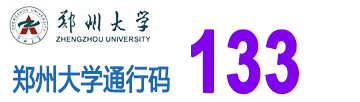
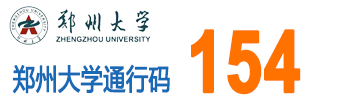
modify school name add ting

Changed region(s): [[0.5194, 0.2647, 0.8556, 0.9412]]

diff --git a/source/QR/ts-in.html b/source/QR/ts-in.html
@@ -1,5 +1,5 @@
 <!DOCTYPE html>
-<!-- saved from url=(0131)https://jksb.v.zzu.edu.cn/vls6sss/zzujksb.dll/gettongxing?ptopid=s0420A4619A5F4E3D86DC4941BAF4E459&door=0003&sid=211114143506287818 -->
+<!-- saved from url=(0131)https://jksb.v.zzu.edu.cn/vls6sss/zzujksb.dll/gettongxing?ptopid=sD4B58439E040401996C7151E9FBE5304&door=0005&sid=211114142907828815 -->
 <html>
 
 <head>
@@ -33,15 +33,15 @@
       tt1--;
       if (tt1 >= 0) {
         if ((tt1 % 2) == 1) {
-          document.getElementById('bian92a').style.backgroundColor = "#aab0fe";
-          document.getElementById('bian92b1').style.backgroundColor = "#aab0fe";
-          document.getElementById('bian92b2').style.backgroundColor = "#aab0fe";
-          document.getElementById('bian92c').style.backgroundColor = "#aab0fe";
+          document.getElementById('bian92a').style.backgroundColor = "#bfffc8";
+          document.getElementById('bian92b1').style.backgroundColor = "#bfffc8";
+          document.getElementById('bian92b2').style.backgroundColor = "#bfffc8";
+          document.getElementById('bian92c').style.backgroundColor = "#bfffc8";
         } else {
-          document.getElementById('bian92a').style.backgroundColor = "#0012ff";
-          document.getElementById('bian92b1').style.backgroundColor = "#0012ff";
-          document.getElementById('bian92b2').style.backgroundColor = "#0012ff";
-          document.getElementById('bian92c').style.backgroundColor = "#0012ff";
+          document.getElementById('bian92a').style.backgroundColor = "#090";
+          document.getElementById('bian92b1').style.backgroundColor = "#090";
+          document.getElementById('bian92b2').style.backgroundColor = "#090";
+          document.getElementById('bian92c').style.backgroundColor = "#090";
         }
         tt2 = tt1 % 60;
         tt3 = (tt1 - tt2) / 60;
@@ -52,34 +52,33 @@
 </head>
 
 <body>
-  <form method="POST" name="myform52"
-    action="https://jksb.v.zzu.edu.cn/vls6sss/zzujksb.dll/gettongxing?ptopid=s0420A4619A5F4E3D86DC4941BAF4E459&amp;door=0003&amp;sid=211114143506287818">
+  <form method="POST" name="myform52" action="#">
     <div id="bak_0">
       <div style="WIDTH: 100%; HEIGHT: 102px;background:url(../uploads/title316.png);">
         <div style="width:100%;height:32px;line-height:32px;text-align:right"><a
-            href="https://jksb.v.zzu.edu.cn/vls6sss/zzujksb.dll/logout?ptopid=s0420A4619A5F4E3D86DC4941BAF4E459"><span
+            href="https://jksb.v.zzu.edu.cn/vls6sss/zzujksb.dll/logout?ptopid=sD4B58439E040401996C7151E9FBE5304"><span
               style="color:#00c;">〖切换账号〗</span></a>　</div>
       </div>
       <div style="width:100%;height:7px;BACKGROUND-IMAGE: url(./assets/split5.png)"></div>
       <div style="WIDTH: 100%; min-HEIGHT: 90px;">
         <div style="width:100%;height:32%;line-height:32px;text-align:left;"><span
-            style="font-size:12px;color:#333;">获取时间：</span><span id="datetimenow" style="font-size:16px;color:#a0a;">11月14日
-            14:29　</span><span style="font-size:12px;color:#333;">有效期剩余 </span><span id="tim317"
+            style="font-size:12px;color:#333;">获取时间：</span><span id="datetimenow" style="font-size:16px;color:#a0a;" id="datetimenow">11月14日
+            14:26　</span><span style="font-size:12px;color:#333;">有效期剩余 </span><span id="tim317"
             style="font-size:22px;color:#c00;font-weight:500;font-family:黑体;"></span></div>
         <div style="width:100%;height:7px;BACKGROUND-IMAGE: url(./assets/split5.png)"></div>
         <div
           style="width:100%;min-height:25px;line-height:25px;font-size:18px;color:#00c;font-weight:500;font-family:黑体;">
-          　<span style="color:#00a">电气信息学院 周健章</span><br>　通行信息：主校区大门南门.<span
-            style="background-color:#c0c;color:#ff0">出口</span><br>　出入身份：批准出入校园学生</div>
+          　<span style="color:#00a">护理与健康学院　赵婷</span><br>　通行信息：主校区大门南门.<span
+            style="background-color:#070;color:#ff0">入口</span><br>　出入身份：批准出入校园学生</div>
       </div>
-      <div style="width: 100%; height: 25px; background-color: rgb(170, 176, 254);" id="bian92a"></div>
+      <div style="width: 100%; height: 25px; background-color: rgb(0, 153, 0);" id="bian92a"></div>
       <div style="width:100%;height:300px;">
-        <div style="width: 25px; height: 100%; background-color: rgb(170, 176, 254); float: left;" id="bian92b1"></div>
+        <div style="width: 25px; height: 100%; background-color: rgb(0, 153, 0); float: left;" id="bian92b1"></div>
         <div style="width:300px;height:100%;float:left;text-align:center;"><img
-            src="./assets/head.jpg" style="height:300px;border:0px;"></div>
-        <div style="width: 25px; height: 100%; background-color: rgb(170, 176, 254); float: right;" id="bian92b2"></div>
+            src="./assets/head-ting.jpg" style="height:300px;border:0px;"></div>
+        <div style="width: 25px; height: 100%; background-color: rgb(0, 153, 0); float: right;" id="bian92b2"></div>
       </div>
-      <div style="width: 100%; height: 25px; background-color: rgb(170, 176, 254);" id="bian92c"></div>
+      <div style="width: 100%; height: 25px; background-color: rgb(0, 153, 0);" id="bian92c"></div>
       <div style="width:100%;height:7px;BACKGROUND-IMAGE: url(./assets/split5.png)"></div>
       <div style="width:100%;min-height:18px;line-height:18px;font-size:12px;color:#666;text-align:center">
         郑州大学疫情防控领导小组、保卫处、信息化办公室</div>
@@ -92,8 +91,8 @@
 
     <div style="width:1px;height:1px;">
     </div>
-    <input type="hidden" name="ptopid" value="s0420A4619A5F4E3D86DC4941BAF4E459"><input type="hidden" name="sid"
-      value="211114143605787839">
+    <input type="hidden" name="ptopid" value="sD4B58439E040401996C7151E9FBE5304"><input type="hidden" name="sid"
+      value="211114143239287788">
   </form>
 
   <div style="width:100%;height:50px;"></div>

diff --git a/source/QR/ts-out.html b/source/QR/ts-out.html
@@ -69,14 +69,14 @@
         <div style="width:100%;height:7px;BACKGROUND-IMAGE: url(./assets/split5.png)"></div>
         <div
           style="width:100%;min-height:25px;line-height:25px;font-size:18px;color:#00c;font-weight:500;font-family:黑体;">
-          　<span style="color:#00a">电气信息学院 周健章</span><br>　通行信息：主校区大门南门.<span
+          　<span style="color:#00a">护理与健康学院　赵婷</span><br>　通行信息：主校区大门南门.<span
             style="background-color:#c0c;color:#ff0">出口</span><br>　出入身份：批准出入校园学生</div>
       </div>
       <div style="width: 100%; height: 25px; background-color: rgb(170, 176, 254);" id="bian92a"></div>
       <div style="width:100%;height:300px;">
         <div style="width: 25px; height: 100%; background-color: rgb(170, 176, 254); float: left;" id="bian92b1"></div>
         <div style="width:300px;height:100%;float:left;text-align:center;"><img
-            src="./assets/head.jpg" style="height:300px;border:0px;"></div>
+            src="./assets/head-ting.jpg" style="height:300px;border:0px;"></div>
         <div style="width: 25px; height: 100%; background-color: rgb(170, 176, 254); float: right;" id="bian92b2"></div>
       </div>
       <div style="width: 100%; height: 25px; background-color: rgb(170, 176, 254);" id="bian92c"></div>

diff --git a/source/QRCode/e-out.html b/source/QRCode/e-out.html
@@ -69,7 +69,7 @@
         <div style="width:100%;height:7px;BACKGROUND-IMAGE: url(./assets/split5.png)"></div>
         <div
           style="width:100%;min-height:25px;line-height:25px;font-size:18px;color:#00c;font-weight:500;font-family:黑体;">
-          　<span style="color:#00a">信息工程学院　周健章</span><br>　通行信息：主校区大门东门.<span
+          　<span style="color:#00a">电气信息学院　周健章</span><br>　通行信息：主校区大门东门.<span
             style="background-color:#c0c;color:#ff0">出口</span><br>　出入身份：批准出入校园学生</div>
       </div>
       <div style="width: 100%; height: 25px; background-color: rgb(170, 176, 254);" id="bian92a"></div>

diff --git a/source/QRCode/e-in.html b/source/QRCode/e-in.html
@@ -68,7 +68,7 @@
         <div style="width:100%;height:7px;BACKGROUND-IMAGE: url(./assets/split5.png)"></div>
         <div
           style="width:100%;min-height:25px;line-height:25px;font-size:18px;color:#00c;font-weight:500;font-family:黑体;">
-          　<span style="color:#00a">信息工程学院　周健章</span><br>　通行信息：主校区大门东门.<span
+          　<span style="color:#00a">电气信息学院　周健章</span><br>　通行信息：主校区大门东门.<span
             style="background-color:#070;color:#ff0">入口</span><br>　出入身份：批准出入校园学生</div>
       </div>
       <div style="width: 100%; height: 25px; background-color: rgb(0, 153, 0);" id="bian92a"></div>

diff --git a/source/QRCode/s-in.html b/source/QRCode/s-in.html
@@ -68,7 +68,7 @@
         <div style="width:100%;height:7px;BACKGROUND-IMAGE: url(./assets/split5.png)"></div>
         <div
           style="width:100%;min-height:25px;line-height:25px;font-size:18px;color:#00c;font-weight:500;font-family:黑体;">
-          　<span style="color:#00a">信息工程学院 周健章</span><br>　通行信息：主校区大门南门.<span
+          　<span style="color:#00a">电气信息学院 周健章</span><br>　通行信息：主校区大门南门.<span
             style="background-color:#070;color:#ff0">入口</span><br>　出入身份：批准出入校园学生</div>
       </div>
       <div style="width: 100%; height: 25px; background-color: rgb(0, 153, 0);" id="bian92a"></div>

diff --git a/source/QR/e-out.html b/source/QR/e-out.html
@@ -69,7 +69,7 @@
         <div style="width:100%;height:7px;BACKGROUND-IMAGE: url(./assets/split5.png)"></div>
         <div
           style="width:100%;min-height:25px;line-height:25px;font-size:18px;color:#00c;font-weight:500;font-family:黑体;">
-          　<span style="color:#00a">信息工程学院　常智</span><br>　通行信息：主校区大门东门.<span
+          　<span style="color:#00a">计算机学院　常智</span><br>　通行信息：主校区大门东门.<span
             style="background-color:#c0c;color:#ff0">出口</span><br>　出入身份：批准出入校园学生</div>
       </div>
       <div style="width: 100%; height: 25px; background-color: rgb(170, 176, 254);" id="bian92a"></div>

diff --git a/source/QR/e-in.html b/source/QR/e-in.html
@@ -69,7 +69,7 @@
         <div style="width:100%;height:7px;BACKGROUND-IMAGE: url(./assets/split5.png)"></div>
         <div
           style="width:100%;min-height:25px;line-height:25px;font-size:18px;color:#00c;font-weight:500;font-family:黑体;">
-          　<span style="color:#00a">信息工程学院　常智</span><br>　通行信息：主校区大门东门.<span
+          　<span style="color:#00a">计算机学院　常智</span><br>　通行信息：主校区大门东门.<span
             style="background-color:#070;color:#ff0">入口</span><br>　出入身份：批准出入校园学生</div>
       </div>
       <div style="width: 100%; height: 25px; background-color: rgb(0, 153, 0);" id="bian92a"></div>

diff --git a/source/QR/s-out.html b/source/QR/s-out.html
@@ -69,7 +69,7 @@
         <div style="width:100%;height:7px;BACKGROUND-IMAGE: url(./assets/split5.png)"></div>
         <div
           style="width:100%;min-height:25px;line-height:25px;font-size:18px;color:#00c;font-weight:500;font-family:黑体;">
-          　<span style="color:#00a">信息工程学院 常智</span><br>　通行信息：主校区大门南门.<span
+          　<span style="color:#00a">计算机学院 常智</span><br>　通行信息：主校区大门南门.<span
             style="background-color:#c0c;color:#ff0">出口</span><br>　出入身份：批准出入校园学生</div>
       </div>
       <div style="width: 100%; height: 25px; background-color: rgb(170, 176, 254);" id="bian92a"></div>

diff --git a/source/QR/s-in.html b/source/QR/s-in.html
@@ -68,7 +68,7 @@
         <div style="width:100%;height:7px;BACKGROUND-IMAGE: url(./assets/split5.png)"></div>
         <div
           style="width:100%;min-height:25px;line-height:25px;font-size:18px;color:#00c;font-weight:500;font-family:黑体;">
-          　<span style="color:#00a">信息工程学院 常智</span><br>　通行信息：主校区大门南门.<span
+          　<span style="color:#00a">计算机学院 常智</span><br>　通行信息：主校区大门南门.<span
             style="background-color:#070;color:#ff0">入口</span><br>　出入身份：批准出入校园学生</div>
       </div>
       <div style="width: 100%; height: 25px; background-color: rgb(0, 153, 0);" id="bian92a"></div>
